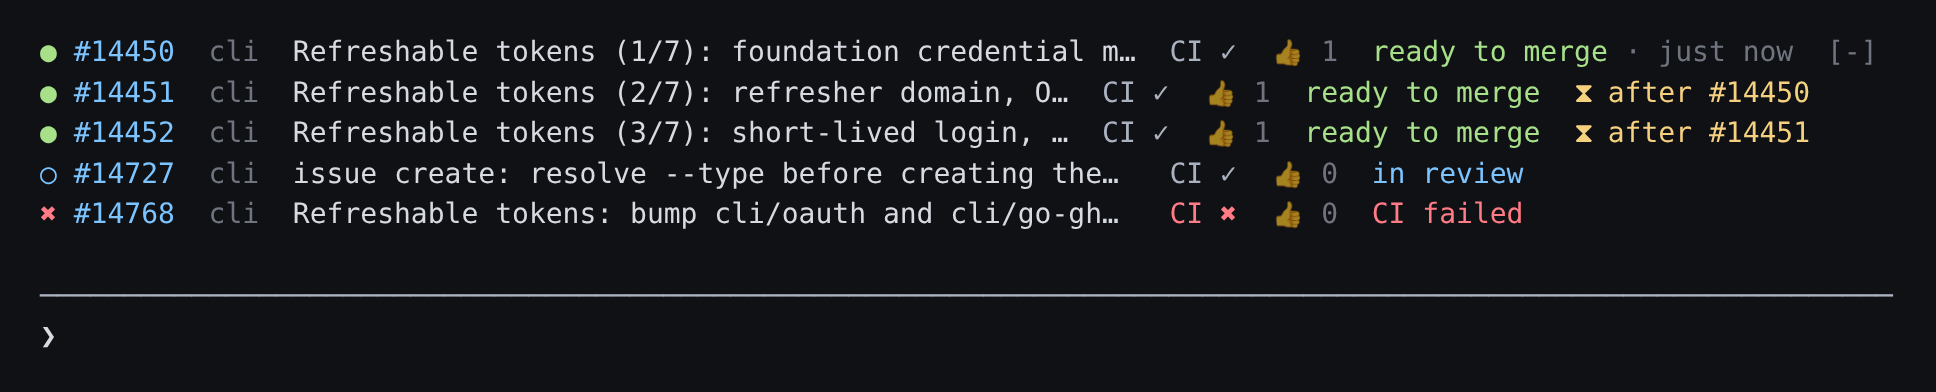
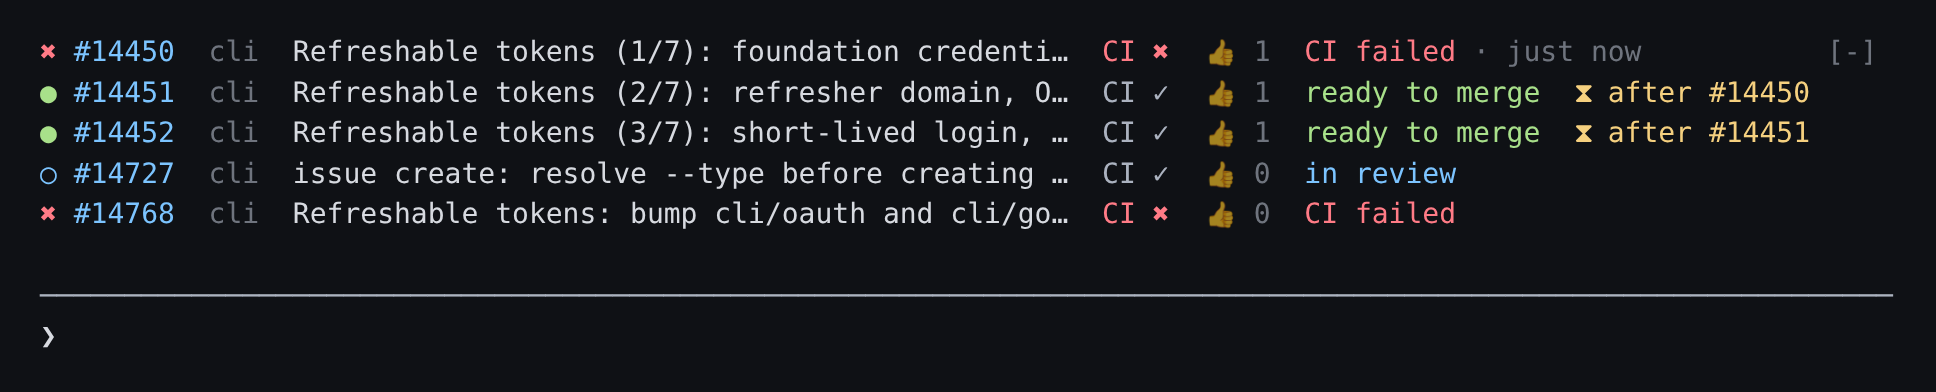
fix(band): keep columns aligned on stacked rows
The stacked-PR mark, the state label and the age share one fixed-width cell, so a stacked row no longer shrinks its title and shifts the CI column. Adds a team setup snippet to the README and a new plain-list screenshot.

Changed region(s): [[0.5269, 0.398, 0.8058, 0.5816], [0.5269, 0.0918, 0.9298, 0.1837], [0.0, 0.1224, 0.031, 0.1531]]

diff --git a/hooks/register.test.ts b/hooks/register.test.ts
@@ -1,5 +1,5 @@
 import { expect, mock, test } from 'claude-code/testing';
-import type { Engine, MockClock } from 'claude-code/testing';
+import type { Engine, FoundElement, MockClock } from 'claude-code/testing';
 import type { On, SessionMessage } from 'claude-code';
 
 import {
@@ -629,6 +629,76 @@ test('a long row title is cut to 50 characters; its hover detail keeps the full 
   expect(row?.props).toMatchObject({ wrap: 'truncate-end' });
   const detail = await ui.find({ key: 'd-pr-ticket-SHOP-214-gitlab-shop-api-42' });
   expect(detail?.text).toContain(long);
+});
+
+/**
+ * The width and shrink of every row's title and state cells, by row key.
+ */
+async function columnsOf(ui: { findAll: (q: { type: string }) => Promise<FoundElement[]> }) {
+  const boxes = await ui.findAll({ type: 'Box' });
+  const cells = (prefix: string) =>
+    boxes
+      .filter((b) => b.key?.startsWith(prefix))
+      .map((b) => ({
+        row: b.key!.slice(prefix.length),
+        width: b.props.width,
+        shrink: b.props.flexShrink,
+      }));
+  return { titles: cells('title-'), states: cells('state-') };
+}
+
+test('a stacked row keeps the title and state widths of the other rows, grouped or plain', async ($, on) => {
+  // A plain list: #90 is stacked on #88; neither has a ticket key.
+  const base = { ...GITHUB_88_VIEW, isDraft: false, mergeStateStatus: 'CLEAN' };
+  const stacked = {
+    ...base,
+    number: 90,
+    title: 'cache the docs build',
+    headRefName: 'octo-user/docs-cache',
+    baseRefName: base.headRefName,
+    url: 'https://github.com/octo-org/docs/pull/90',
+  };
+  const { clock } = hostsFor(on, { views: { [base.url]: base, [stacked.url]: stacked } });
+  toolsFor(on);
+  const add = (url: string) =>
+    $.command.run({ command: 'my-pr-links', args: `add ${url}`, ...COMPOSER });
+
+  await add(base.url);
+  await add(stacked.url);
+  await clock.settle();
+
+  const plain = await $.ui.mount({ plugin: 'my-pr-links', surface: 'terminal', ...BAND });
+  expect(await plain.find({ type: 'Text', text: '⧗ after #88' })).toBeDefined();
+  const list = await columnsOf(plain);
+  expect(list.titles.map((c) => c.row)).toEqual([
+    'pr-other-other-github-docs-88',
+    'pr-other-other-github-docs-90',
+  ]);
+  // Both rows: the longest title, and one state width that holds #88's age and #90's ⧗ mark.
+  const titleWidth = 'ci: add a docs build workflow'.length;
+  const stateWidth = Math.max(
+    'ready to merge · just now'.length,
+    'ready to merge  ⧗ after #88'.length,
+  );
+  for (const c of list.titles) expect(c).toMatchObject({ width: titleWidth, shrink: 1 });
+  for (const c of list.states) expect(c).toMatchObject({ width: stateWidth, shrink: 0 });
+
+  // A ticket group: !42 is stacked on !41 and has a note; the note only fills the room left.
+  await createShopApiPr($);
+  await add(GITLAB_MR_41.web_url);
+  await clock.settle();
+
+  const ui = await $.ui.mount({ plugin: 'my-pr-links', surface: 'terminal', ...BAND });
+  expect(await ui.find({ type: 'Text', text: '⧗ after !41' })).toBeDefined();
+  const grid = await columnsOf(ui);
+  expect(grid.titles.length).toBe(4);
+  expect(new Set(grid.titles.map((c) => `${c.width}/${c.shrink}`)).size).toBe(1);
+  expect(new Set(grid.states.map((c) => `${c.width}/${c.shrink}`))).toEqual(
+    new Set([`${'ready to merge  ⧗ after #88'.length}/0`]),
+  );
+  const note = await ui.find({ key: 'note-pr-ticket-SHOP-214-gitlab-shop-api-42' });
+  expect(note?.text).toBe('· unresolved threads');
+  expect(note?.props).toMatchObject({ width: 0, flexGrow: 1 });
 });
 
 test('a ready GitHub PR nobody approved shows 👍 0 in the warning color', async ($, on) => {

diff --git a/hooks/register.tsx b/hooks/register.tsx
@@ -745,6 +745,23 @@ export const register: Register = (on, options) => {
       0,
       ...rowPrs.map((m) => (m.approvals ? m.approvals.length + 3 : 0)),
     );
+    // A plain list shows the age on its first row; a list with headers, on the first header.
+    const ageRow = headed ? undefined : rowPrs[0];
+    const stackMarkOf = (m: Pr) => (m.stackedOn ? `⧗ after ${m.stackedOn}` : '');
+    // The state column (label, age, ⧗ mark) has one width on every row, and the note
+    // only takes the room left over, so neither cuts one row's title shorter than
+    // another's: the title, CI, approvals and state columns line up on every row.
+    const stateWidth = Math.max(
+      0,
+      ...rowPrs.map((m) => {
+        const mark = stackMarkOf(m);
+        return (
+          LOOK[m.state].label.length +
+          (m === ageRow ? ` · ${age}`.length : 0) +
+          (mark ? mark.length + 2 : 0)
+        );
+      }),
+    );
 
     const scopeOf = (group: PrGroup, m: Pr) =>
       `pr-${group.kind}-${group.id}-${m.provider}-${m.repo}-${m.ref.slice(1)}`;
@@ -781,7 +798,7 @@ export const register: Register = (on, options) => {
           <Box width={repoWidth} flexShrink={0}>
             <Text dimColor>{m.repo}</Text>
           </Box>
-          <Box width={titleWidth} flexShrink={1}>
+          <Box key={`title-${scope}`} width={titleWidth} flexShrink={1}>
             <Text wrap="truncate-end" dimColor={isClosed} hover={{ scope, inverse: true }}>
               {m.rowTitle}
             </Text>
@@ -804,19 +821,24 @@ export const register: Register = (on, options) => {
               )}
             </Box>
           )}
-          <Box flexShrink={0}>
-            <Text color={look.color}>{look.label}</Text>
-            {ageText(showsAge)}
-          </Box>
-          {m.stackedOn ? (
+          <Box key={`state-${scope}`} width={stateWidth} flexShrink={0} gap={2}>
             <Box flexShrink={0}>
-              <Text color="warning">⧗ after {m.stackedOn}</Text>
+              <Text color={look.color}>{look.label}</Text>
+              {ageText(showsAge)}
             </Box>
-          ) : null}
+            {m.stackedOn ? (
+              <Box flexShrink={0}>
+                <Text color="warning">{stackMarkOf(m)}</Text>
+              </Box>
+            ) : null}
+          </Box>
           {m.note && showsNote ? (
-            <Text italic color="warning" wrap="truncate-end">
-              · {m.note}
-            </Text>
+            // Width 0 and a grow: the note fills the room left and never shrinks the title.
+            <Box key={`note-${scope}`} width={0} flexGrow={1}>
+              <Text italic color="warning" wrap="truncate-end">
+                · {m.note}
+              </Text>
+            </Box>
           ) : null}
         </Box>
       );

diff --git a/README.md b/README.md
@@ -21,7 +21,7 @@ A Claude Code mod that shows the pull requests of your session in a band above t
 
 With no ticket key in any PR, the band is a plain list with no headers. Here three PRs form a stack:
 
-![A plain list of five cli/cli PRs with no group headers. Three are ready to merge, and #14451 and #14452 show "⧗ after #14450" and "⧗ after #14451" because they are stacked. One PR is in review and one has a failed CI run.](docs/images/plain-list.png)
+![A plain list of five cli/cli PRs with no group headers. #14451 and #14452 are ready to merge and show "⧗ after #14450" and "⧗ after #14451" because they are stacked. One PR is in review and two have a failed CI run. The title, CI, approval and state columns line up on every row.](docs/images/plain-list.png)
 
 `/my-pr-links list` prints every PR of the last fetch with its full title and a link:
 
@@ -53,6 +53,17 @@ From a local clone, for one session:
 
 ```sh
 claude --plugin-dir path/to/my-pr-links
+```
+
+For a whole team, commit this to the repo's `.claude/settings.json`. Everyone who opens the repo and trusts the folder gets the band, with no install step:
+
+```json
+{
+  "extraKnownMarketplaces": {
+    "my-pr-links": { "source": { "source": "github", "repo": "joboyx/my-pr-links" } }
+  },
+  "enabledPlugins": { "my-pr-links@my-pr-links": true }
+}
 ```
 
 Third-party marketplaces do not auto-update by default. Turn it on in `/plugin` → Marketplaces, or run `claude plugin update my-pr-links@my-pr-links`.
